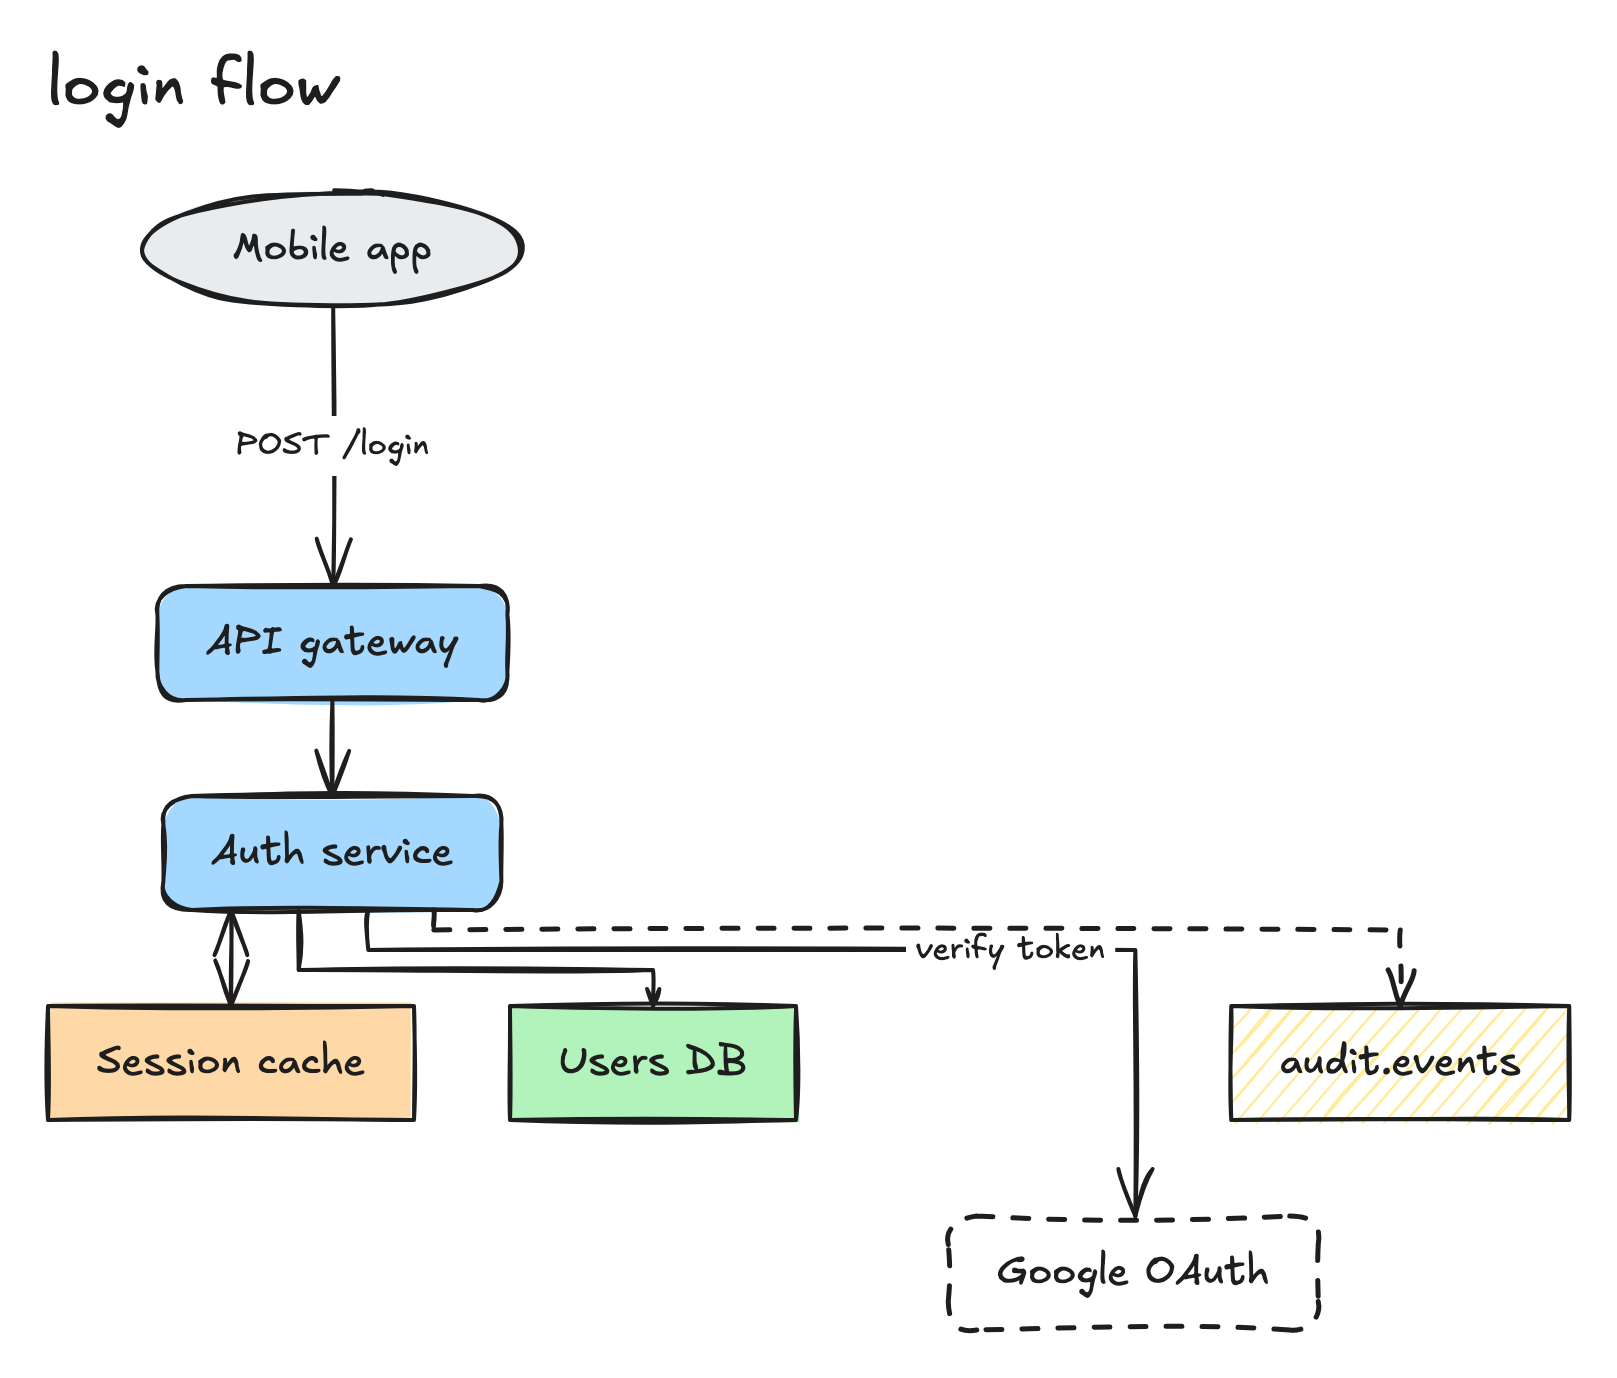
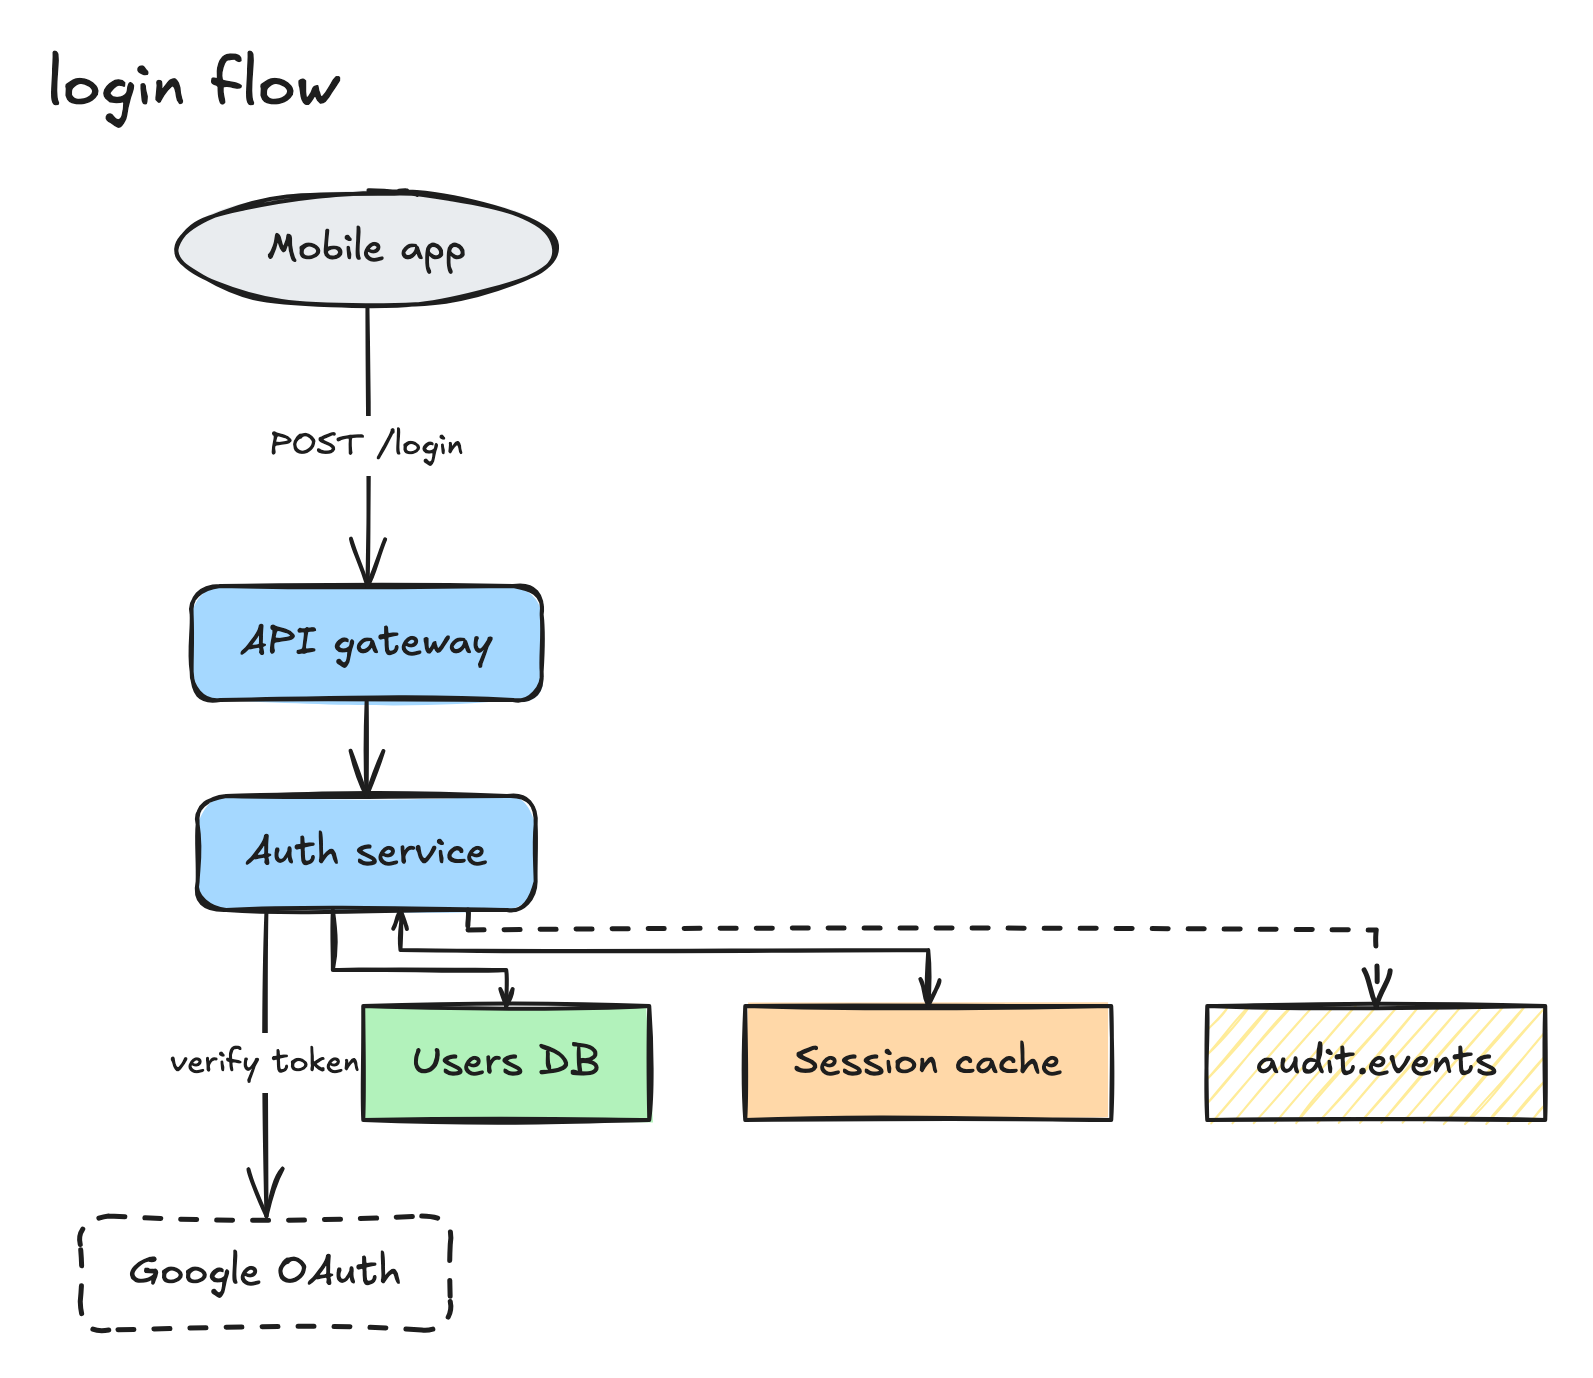
feat(layout): keep spec order for siblings
ELK's crossing minimisation shuffled siblings, so a hub with twelve spokes
listed 0..11 came out 4, 11, 5, 10. considerModelOrder keeps the agent's
listing order wherever crossings allow, which makes the page predictable from
the spec.

diff --git a/src/layout.ts b/src/layout.ts
@@ -44,6 +44,7 @@ function toElkGraph(input: LayoutInput): ElkNode {
       "elk.spacing.edgeNode": "24",
       "elk.edgeLabels.placement": "CENTER",
       "elk.edgeLabels.inline": "true",
+      "elk.layered.considerModelOrder.strategy": "NODES_AND_EDGES",
     },
     children: childrenOf(undefined),
     edges: input.edges.map(elkEdge),

diff --git a/DESIGN.md b/DESIGN.md
@@ -94,6 +94,8 @@ ELK (`elkjs/lib/elk.bundled.js`, no worker) with:
 - `elk.algorithm: layered`, `elk.direction: RIGHT | DOWN`
 - `elk.hierarchyHandling: INCLUDE_CHILDREN` so edges may cross group borders
 - `elk.edgeRouting: ORTHOGONAL`
+- `elk.layered.considerModelOrder.strategy: NODES_AND_EDGES`: siblings keep the
+  order the spec lists them in, as far as crossings allow
 - group padding leaves room for the label: top = label.height + 16, others 16
 - `elk.spacing.nodeNode: 48`, `elk.layered.spacing.nodeNodeBetweenLayers: 48`,
   `elk.spacing.edgeNode: 24`
